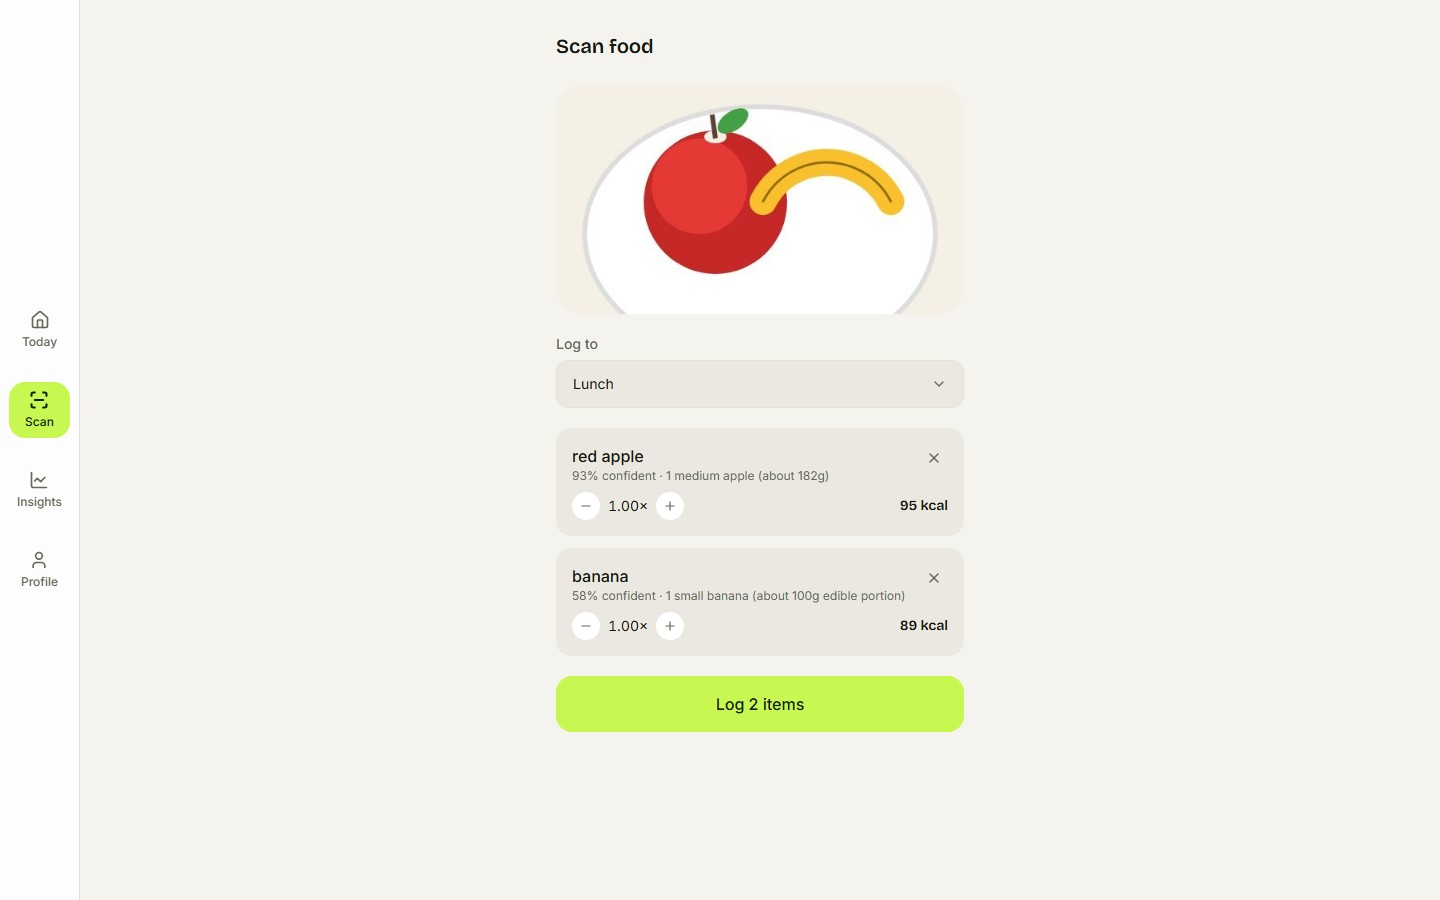
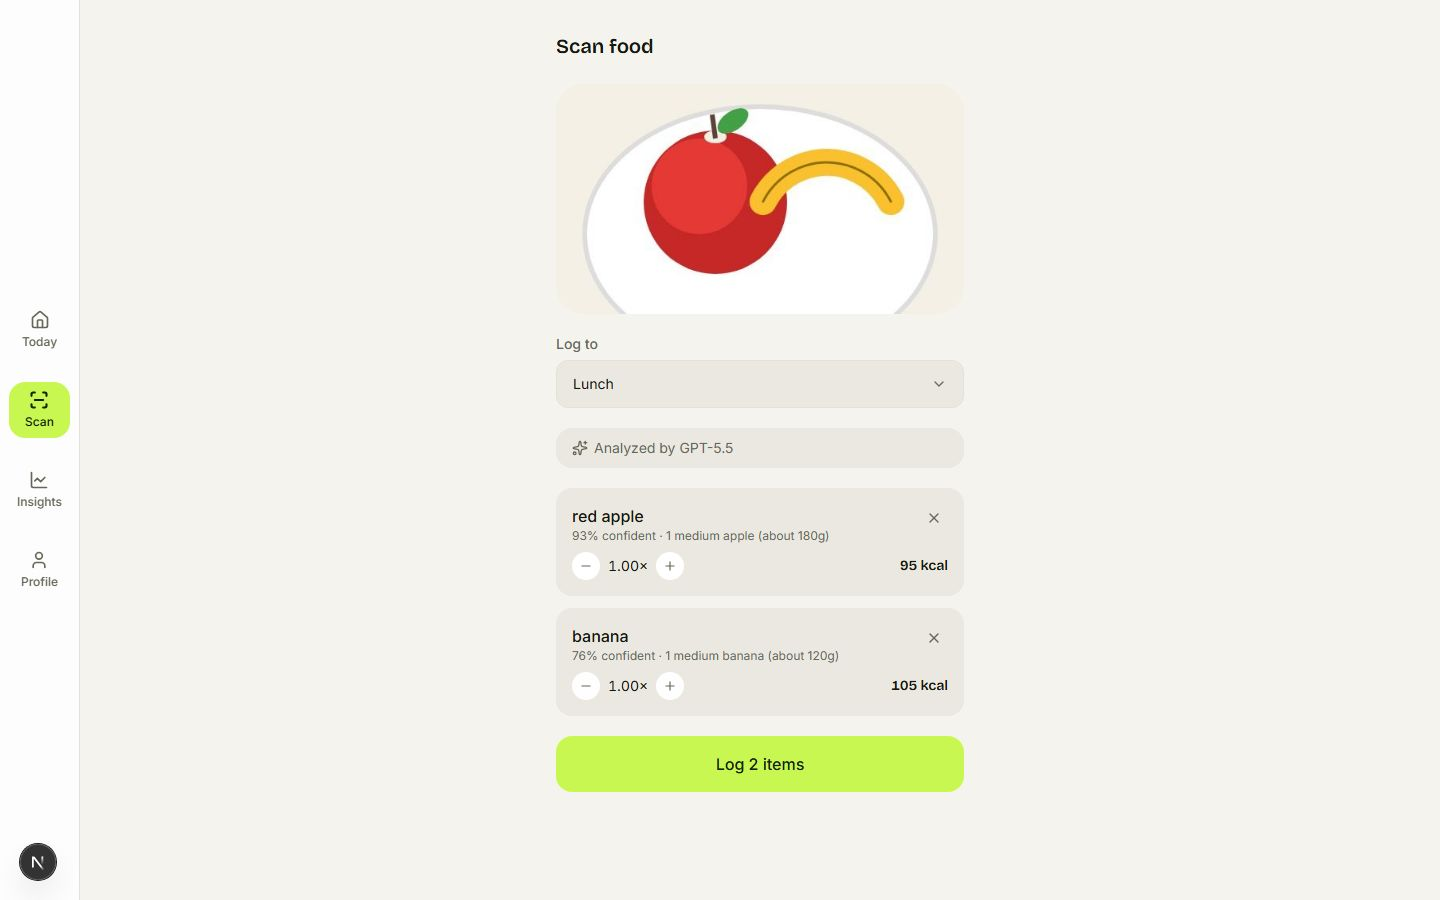
Update Forkcast entry to match current repo state
The scan's mock fallback was replaced upstream with a real Anthropic/
OpenAI/Gemini cascade, which made the "runs with no API keys at all"
claim false. Rewrites the description, detail and feature bullets
accordingly, documents the new photo-thumbnail-on-scan-entries feature
and the LAN-HTTPS camera dev setup, and recaptures the two screenshots
(today.jpg, scan.jpg) whose UI those changes actually affect.

Claude-Session: https://claude.ai/code/session_01H5AVXcJ3oyhMmgtgA65qqC

diff --git a/tests/e2e/projects-modal.spec.js b/tests/e2e/projects-modal.spec.js
@@ -100,6 +100,12 @@ test("the Forkcast gallery has four screenshots and links to its source", async 
     "href",
     "https://github.com/czedrixb/forkcast",
   );
+
+  // The scan provider cascade replaced a mock fallback — guard against the
+  // old "runs with no API keys at all" claim silently coming back.
+  await expect(dialog).toContainText(/model that actually answered/);
+  await expect(dialog).not.toContainText(/no API keys at all/);
+  await expect(dialog).not.toContainText(/mock/i);
 });
 
 test("Escape closes the dialog and returns focus to the card", async ({ page }) => {
